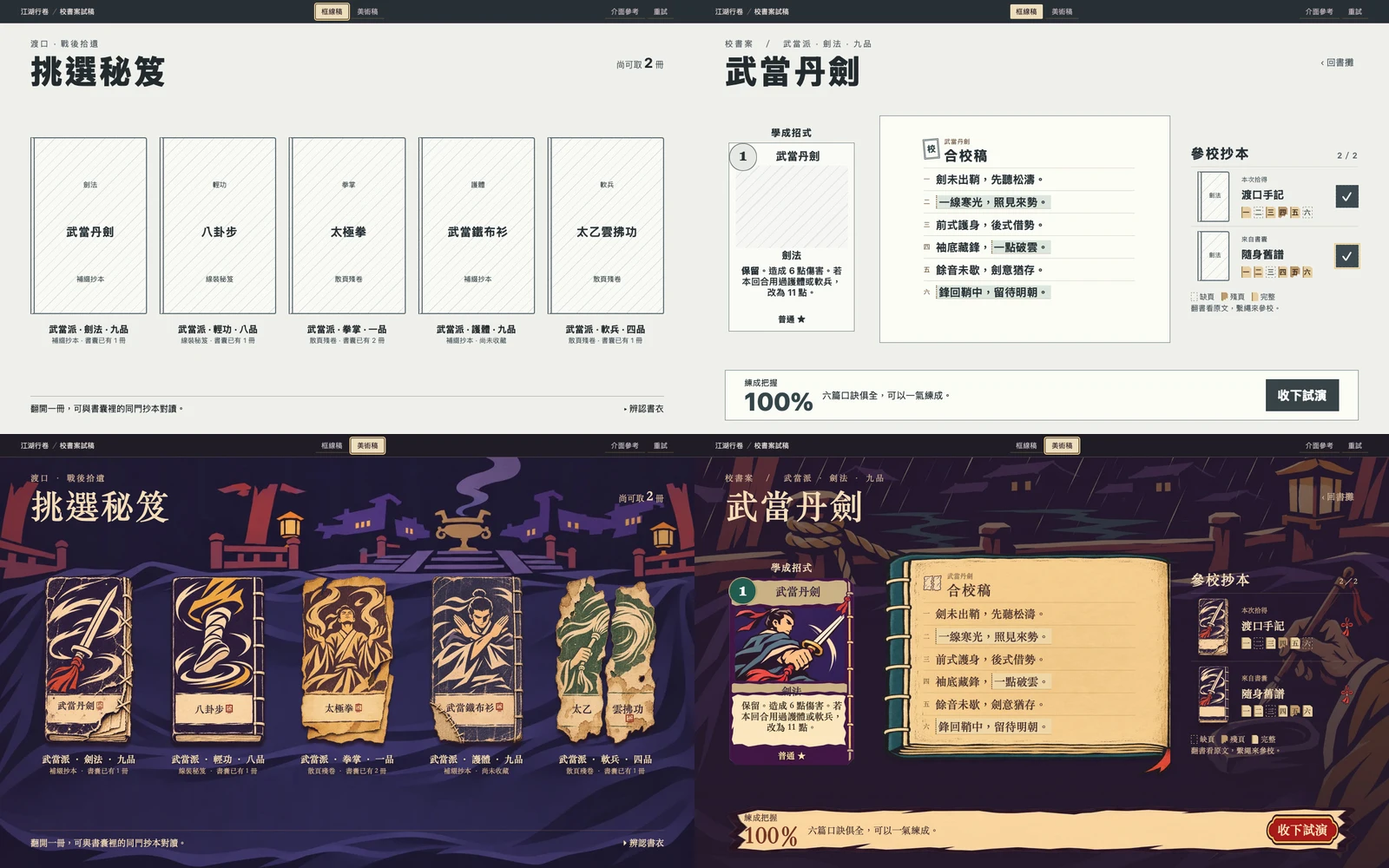
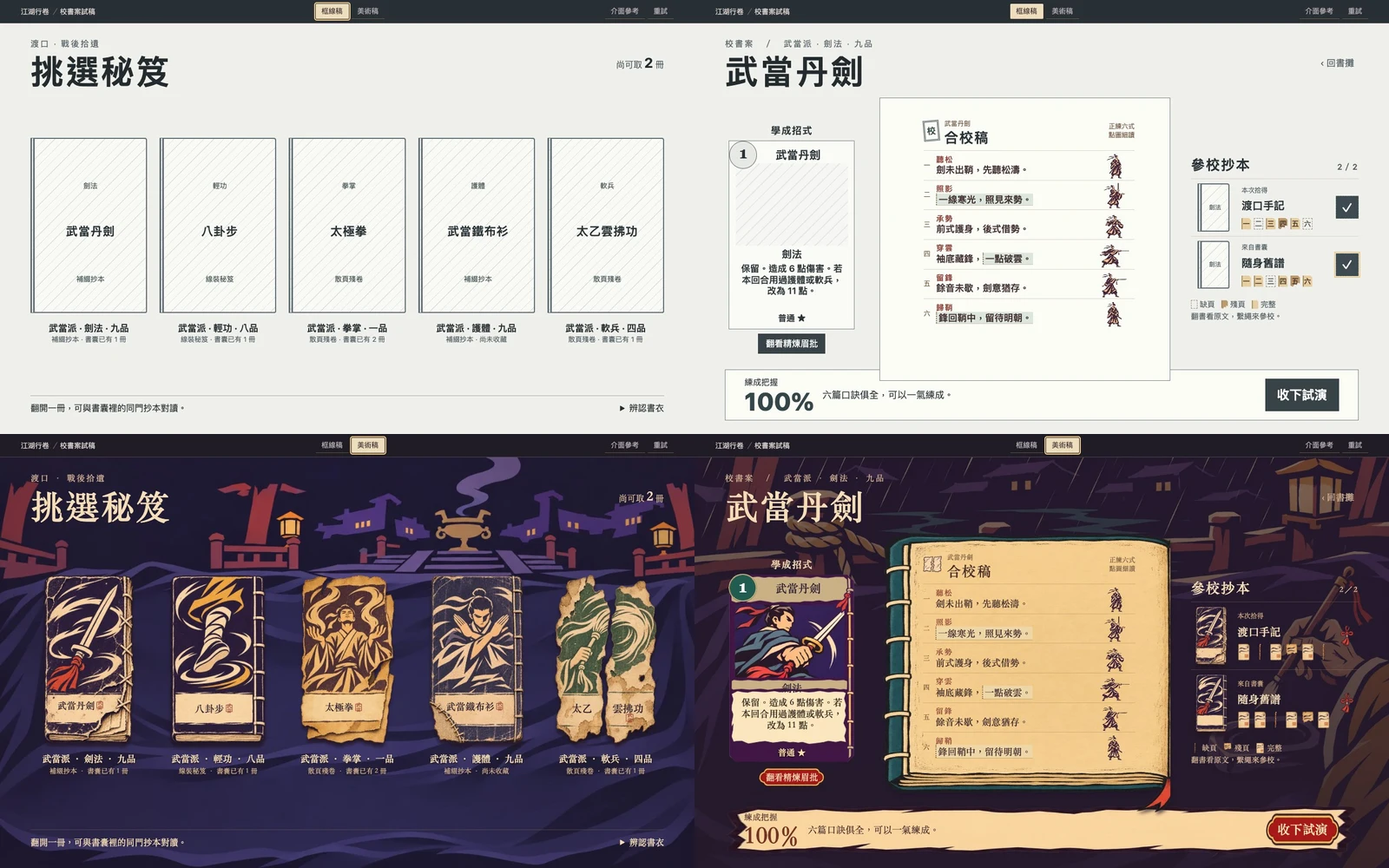
Illustrate each manuscript verse, surviving leaves and refinement notes

diff --git a/wuxia-climb/ferry/experiments/wudang-tree/bindery/bindery.js b/wuxia-climb/ferry/experiments/wudang-tree/bindery/bindery.js
@@ -1,10 +1,12 @@
-import {byName,ranks} from '../catalogue.js';
+import {byName,ranks,effect} from '../catalogue.js';
 import {cardFace} from '../card-face.js';
 import {collate,chapters,withCopy} from '../manuscripts.js';
 import {gateOdds,trainingChance,rehearse,equip} from '../rules.js';
 import {bindingState} from '../bound-book.js';
 import {manualVerses} from '../manual-verses.js';
 import {reviewJourney} from '../review-frames.js';
+
+import {figureBooks} from './figures.js';
 
 const specimens=[
  ['武當丹劍',[2,0,2,1,2,0],'渡口手記',[['隨身舊譜',[2,2,0,2,1,2]]]],
@@ -16,7 +18,7 @@ const specimens=[
 const params=new URLSearchParams(location.search),stage=document.querySelector('#stage');
 let mode=params.get('mode')==='wire'?'wire':'art',screen=params.get('screen')==='study'?'study':'shelf';
 let index=0,state,choices,logs,inspected,chosen;
-const beatMs=720;
+const beatMs=850;
 let playback=null,ticker=0;
 function endPlayback(){clearTimeout(ticker);playback=null}
 function advancePlayback(){
@@ -33,11 +35,10 @@ function startPlayback(){
  }
 }
 // Only the current verse moves. Finished verses hold a single ink pose.
-const motionStrip={'劍法':0,'身法':2,'拳掌':3,'護體':3,'軟兵':1};
 function updateMarks(record){
- const strip=motionStrip[byName.get(specimens[index][0]).branch];
+ const book=figureBooks[specimens[index][0]];
  const live=stage.querySelector('[data-current-verse]');
- if(live&&playback)live.textContent='第'+chapters[playback.step]+'式';
+ if(live&&playback)live.textContent='第'+chapters[playback.step]+'式 · '+book.names[playback.step];
  stage.querySelectorAll('[data-practice-row]').forEach((mark,i)=>{
   const settled=!playback||i<playback.step;
   const fallen=i===record.failed;
@@ -45,8 +46,7 @@ function updateMarks(record){
    :i===playback.step?(fallen?'falling':'moving'):'waiting';
   if(mark.dataset.pose===status)return;
   mark.dataset.pose=status;
-  mark.style.setProperty('--strip-y',((fallen&&['fallen','falling'].includes(status)?5:settled?3:strip)/5*100)+'%');
-  mark.setAttribute('aria-label','第'+chapters[i]+'篇 · '+({waiting:'待演',unreached:'未練到',moving:'試演中',falling:'失手',passed:'已通',fallen:'失手'}[status]));
+  mark.setAttribute('aria-label','第'+chapters[i]+'式 · '+book.names[i]+' · '+({waiting:'待演',unreached:'未練到',moving:'試演中',falling:'失手',passed:'已通',fallen:'失手'}[status]));
  });
 }
 const category=a=>a.branch==='身法'?'輕功':a.branch;
@@ -86,7 +86,26 @@ function shelf(){
  return title('渡口 · 戰後拾遺','挑選秘笈','<p class="allowance">尚可取 <b>'+budget+'</b> 冊</p>')+
   '<div class="shelf">'+books+'</div><div class="shelf-base"><span>翻開一冊，可與書囊裡的同門抄本對讀。</span><details><summary>辨認書衣</summary><div class="dye-key"><span><i></i>靛青　下三品</span><span><i></i>玉綠　中三品</span><span><i></i>赭金　上三品</span></div></details></div>';
 }
-function card(a){return '<div class="target-card">'+cardFace(a)+'</div>'}
+function card(a,star=false){
+ return '<div class="target-card">'+cardFace(a,star,a.cost,effect(a,star,true))+'</div>';
+}
+function figure(book,i,q,pose='print',practice=false){
+ return '<span class="folio-figure" '+(practice?'data-practice-row="'+i+'" ':'')+'style="--fig:url(art/figures/'+book.plate+'.webp);--row:'+i*20+'%" data-ink="'+q+'" data-pose="'+pose+'" role="img" aria-label="'+book.names[i]+'，'+conditionNames[q]+'"></span>';
+}
+function openLeaf(i){
+ const a=byName.get(specimens[index][0]),book=figureBooks[a.name];
+ const p=inspected===null?selectedPages():copies()[inspected][1],q=p[i];
+ const dialog=document.querySelector('#verse-leaf');
+ const note=q===2?book.gloss[i]:q===1?'下半葉已佚。若有另一抄本，可以對讀。':'只餘裝訂處的紙根，招圖與口訣都已散失。';
+ const marginal=q===2&&book.hinge===i?'<aside><b>旁批 · 論逆練</b>'+book.reverse+'</aside>':'';
+ dialog.innerHTML='<article><small>'+a.name+'　／　'+(inspected===null?'合校稿':copies()[inspected][0])+'</small><h2 id="verse-title">第'+chapters[i]+'式　'+book.names[i]+'</h2>'+figure(book,i,q,q===2?'reading':'print')+'<p class="verse-quotation">'+instruction(a,i,q)+'</p><p>'+note+'</p>'+marginal+'<form method="dialog"><button>合回書頁</button></form></article>';
+ dialog.showModal();
+}
+function openRefinement(){
+ const a=byName.get(specimens[index][0]),book=figureBooks[a.name],dialog=document.querySelector('#refinement');
+ dialog.innerHTML='<article><small>'+a.name+'　／　師門眉批</small><h2 id="refine-title">精煉對照</h2><div class="two-cards"><section><h3>初學</h3>'+card(a)+'</section><section><h3>精煉後</h3>'+card(a,true)+'</section></div><p>'+book.refinement+'</p><form method="dialog"><button>合回書頁</button></form></article>';
+ dialog.showModal();
+}
 function instruction(a,line,q,base=q){
  const [start,end]=manualVerses[a.name][line];
  const patch=t=>'<span class="mended" title="這段由另一份抄本接回">'+t+'</span>';
@@ -96,8 +115,8 @@ function instruction(a,line,q,base=q){
  return (base===0?patch(first):first)+(q===2?(base===1?patch(last):last):'<span class="lacuna half" aria-label="下半句缺失"></span>');
 }
 const conditionNames=['缺頁','殘頁','完整'];
-function leafStrip(pages){
- const desc=pages.map((q,i)=>'第'+chapters[i]+'篇'+conditionNames[q]).join('、');
+function leafStrip(book,pages){
+ const desc=pages.map((q,i)=>'第'+chapters[i]+'式'+book.names[i]+'，'+conditionNames[q]).join('、');
  return '<span class="coverage" role="img" aria-label="'+desc+'" title="'+desc+'">'+pages.map((q,i)=>'<i data-q="'+q+'" aria-hidden="true">'+chapters[i]+'</i>').join('')+'</span>';
 }
 function verdict(a,pages,odds,rec){
@@ -106,24 +125,26 @@ function verdict(a,pages,odds,rec){
  if(rec)return '<div class="decision-result"><strong>'+(rec.failed<0?'六式連成':'止於第'+chapters[rec.failed]+'式')+'</strong><span>'+(rec.failed<0?'《'+a.name+'》已加入牌組。':'這次未能學成，抄本已收入書囊。')+'</span></div>'+button('shelf','回書攤');
  if(!chosen.size)return '<span>從手邊選一份抄本，攤開來對讀。</span>'+button('train','收下試演',true);
  const weakest=odds.indexOf(Math.min(...odds));
- const clue=pages[weakest]===0?'第'+chapters[weakest]+'篇失傳，這一式要自行推敲。':
-  pages[weakest]===1?'第'+chapters[weakest]+'篇只剩半句，這一式未有十足把握。':
+ const title='「'+figureBooks[a.name].names[weakest]+'」';
+ const clue=pages[weakest]===0?title+'缺了全頁，這一式要自行推敲。':
+  pages[weakest]===1?title+'只剩半句，後半式要自行推敲。':
   odds[weakest]<100?'第'+chapters[weakest]+'式尚欠《'+a.parent+'》的根基。':'六篇口訣俱全，可以一氣練成。';
  return '<div class="decision-chance"><small>練成把握</small><strong>'+trainingChance(state,a,pages)+'%</strong></div><span class="decision-note">'+clue+'</span>'+button('train',logs.size>=2?'本場已取兩冊':'收下試演',logs.size>=2);
 }
 function study(){
  const a=byName.get(specimens[index][0]),sources=copies(),pages=selectedPages(),odds=gateOdds(state,a,pages),rec=logs.get(index);
  const seeOriginal=inspected!==null,read=seeOriginal?sources[inspected][1]:pages;
+ const book=figureBooks[a.name];
  const first=sources.find((_,i)=>chosen.has(i));
  const chapterList=chapters.map((n,i)=>{
   const base=seeOriginal||!first?read[i]:first[1][i];
-  const mark=rec&&!seeOriginal?'<span class="practice-mark" data-practice-row="'+i+'" role="img"></span>':'';
-  return '<li data-q="'+read[i]+'"><span class="chapter-number">'+n+'</span><span class="stanza">'+instruction(a,i,read[i],base)+'</span>'+mark+'</li>';
+  const mark=figure(book,i,read[i],'print',!!rec&&!seeOriginal);
+  return '<li data-q="'+read[i]+'"><button class="verse-row" data-verse="'+i+'" '+(playback?'disabled':'')+' aria-label="翻看第'+n+'式：'+book.names[i]+'，'+conditionNames[read[i]]+'"><span class="chapter-number">'+n+'</span><span class="verse-copy"><b>'+book.names[i]+'</b><span class="stanza">'+instruction(a,i,read[i],base)+'</span></span>'+mark+'</button></li>';
  }).join('');
- const candidateList=sources.map(([label,p],i)=>'<div class="source-row"><button data-look="'+i+'" class="little-copy" aria-label="翻閱原本：'+label+'">'+volume(a,p,i)+'</button><span class="source-caption"><small>'+(i===0?'本次拾得':'來自書囊')+'</small><b>'+label+'</b>'+leafStrip(p)+'</span><button class="use-copy" data-use="'+i+'" aria-pressed="'+chosen.has(i)+'" aria-label="'+(chosen.has(i)?'移出':'加入')+label+'" '+(rec?'disabled':'')+'>'+(chosen.has(i)?'✓':'＋')+'</button></div>').join('');
+ const candidateList=sources.map(([label,p],i)=>'<div class="source-row"><button data-look="'+i+'" class="little-copy" aria-label="翻閱原本：'+label+'">'+volume(a,p,i)+'</button><span class="source-caption"><small>'+(i===0?'本次拾得':'來自書囊')+'</small><b>'+label+'</b>'+leafStrip(book,p)+'</span><button class="use-copy" data-use="'+i+'" aria-pressed="'+chosen.has(i)+'" aria-label="'+(chosen.has(i)?'移出':'加入')+label+'" '+(rec?'disabled':'')+'>'+(chosen.has(i)?'✓':'＋')+'</button></div>').join('');
  return title('校書案　／　'+identity(a),a.name,'<button data-do="shelf" class="return">‹ 回書攤</button>')+
- '<div class="workbench"><section class="payoff"><h2>'+(!playback&&rec?.failed===-1?'已加入牌組':'學成招式')+'</h2>'+card(a)+'</section>'+
- '<section class="reading"><div class="paper"><div class="paper-head"><span class="chop">'+(seeOriginal?'原':'校')+'</span><div><small>'+a.name+'</small><h2>'+(seeOriginal?sources[inspected][0]:'合校稿')+'</h2></div></div><ol>'+chapterList+'</ol></div>'+
+ '<div class="workbench"><section class="payoff"><h2>'+(!playback&&rec?.failed===-1?'已加入牌組':'學成招式')+'</h2>'+card(a)+'<button class="refine-preview" data-do="refinement" '+(playback?'disabled':'')+'>翻看精煉眉批</button></section>'+
+ '<section class="reading"><div class="paper"><div class="paper-head"><span class="chop">'+(seeOriginal?'原':'校')+'</span><div><small>'+a.name+'</small><h2>'+(seeOriginal?sources[inspected][0]:'合校稿')+'</h2></div><small class="reading-order">正練六式<br>點圖細讀</small></div><ol>'+chapterList+'</ol></div>'+
  (seeOriginal?'<button data-do="joined" class="read-back">看合校稿</button>':'')+'</section>'+
  '<section class="sources"><h2>參校抄本 <small>'+chosen.size+'／'+sources.length+'</small></h2>'+candidateList+'<div class="leaf-key">'+conditionNames.map((text,q)=>'<span><i data-q="'+q+'"></i>'+text+'</span>').join('')+'</div><p>翻書看原文，繫繩來參校。</p></section></div>'+
  '<div class="judgment" aria-live="polite">'+verdict(a,pages,odds,rec)+'</div>';
@@ -143,6 +164,8 @@ document.addEventListener('click',e=>{
  if(b.dataset.do==='references'){document.querySelector('#references').showModal();return}
  if(b.dataset.do==='reset'){reset();screen='shelf';render(true);return}
  if(b.dataset.do==='shelf'){endPlayback();screen='shelf';render(true);return}
+ if(b.dataset.verse!=null){openLeaf(+b.dataset.verse);return}
+ if(b.dataset.do==='refinement'){openRefinement();return}
  if(b.dataset.look!=null)inspected=+b.dataset.look;
  else if(b.dataset.use!=null){const i=+b.dataset.use;chosen.has(i)?chosen.delete(i):chosen.add(i);inspected=null}
  else if(b.dataset.do==='joined')inspected=null;

diff --git a/wuxia-climb/ferry/experiments/wudang-tree/bindery/bindery.css b/wuxia-climb/ferry/experiments/wudang-tree/bindery/bindery.css
@@ -56,18 +56,6 @@ body[data-mode=wire]{--cream:#242b2f;--muted:#556166;--serif:system-ui,sans-seri
 .volume-foot{display:grid;justify-items:center;gap:3px;line-height:1.25;padding:4px 10px}
 .volume-foot b{font-weight:700;color:var(--cream)}.volume-foot small{font-size:.76em;color:var(--muted)}
 .paper li{grid-template-columns:1em minmax(0,1fr) clamp(29px,3.5vw,49px)}
-.practice-mark{justify-self:end;display:block;width:100%;max-width:48px;aspect-ratio:7/6;max-height:clamp(27px,4.9vh,42px);background:none}
-.practice-mark:is([data-pose=moving],[data-pose=passed],[data-pose=falling],[data-pose=fallen]){
- background-image:url('art/practice-ink.webp');background-size:800% 600%;background-repeat:no-repeat;background-position:0 var(--strip-y)
-}
-.practice-mark[data-pose=fallen]{background-position-x:100%}
-.practice-mark[data-pose=passed]{background-position-x:0%;opacity:.78}
-@keyframes ink-form{from{background-position-x:0%}to{background-position-x:100%}}
-@media(prefers-reduced-motion:no-preference){
- .practice-mark[data-pose=moving]{animation:ink-form .62s steps(7,end) both}
- .practice-mark[data-pose=falling]{animation:ink-form .50s steps(7,end) both}
-}
-
 /* The live inscription follows the painted title slip on each edition. */
 [data-mode=art] .edition{container-type:inline-size;aspect-ratio:var(--ratio,2/3)}
 [data-mode=art] .edition .book-title{position:absolute;inset:auto;left:var(--label-x,50%);top:var(--label-y,74%);width:var(--label-w,74%);height:auto;transform:translate(-50%,-50%) rotate(var(--angle,0deg));writing-mode:horizontal-tb;display:flex;align-items:center;justify-content:center;gap:.18em;color:#312332;line-height:1.1;font-size:var(--label-size,10cqw);letter-spacing:.015em}
@@ -80,7 +68,6 @@ body[data-mode=wire]{--cream:#242b2f;--muted:#556166;--serif:system-ui,sans-seri
 [data-mode=wire] .volume-foot{text-shadow:none}
 .volume-foot small{font-size:clamp(11px,.99vw,15px)}
 .dye-key{display:grid;gap:.3em}.dye-key i{display:inline-block;width:1em;height:1em;margin-right:.4em;vertical-align:middle;background:#51507e}.dye-key span:nth-child(2) i{background:#547c67}.dye-key span:nth-child(3) i{background:#bf8b37}
-.paper li:not(:has(.practice-mark)){grid-template-columns:1em 1fr}
 .mended{background:#eed6a7;border-inline-start:2px dotted #987955;box-decoration-break:clone;-webkit-box-decoration-break:clone;padding-inline:.16em;box-shadow:0 1px 0 #95764b66}
 [data-mode=wire] .mended{background:#dce6dc}
 .coverage,.leaf-key{display:flex;align-items:center;gap:4px}.coverage{margin-top:3px}
@@ -91,9 +78,8 @@ body[data-mode=wire]{--cream:#242b2f;--muted:#556166;--serif:system-ui,sans-seri
 [data-mode=wire] .coverage [data-q="0"]{color:#526058}
 .judgment{min-height:65px}.judgment .decision-result{display:flex;align-items:baseline;gap:1rem}.judgment .decision-result strong,.judgment [data-current-verse]{font-size:clamp(20px,2.5vw,34px)}
 .judgment .decision-note{flex:1 1 auto;font-size:clamp(13px,1.35vw,19px)}.judgment .apply{flex:none}
-.practice-mark{max-width:37px}.practice-mark[data-pose=fallen]{filter:sepia(.5);opacity:.9}
 @media(max-width:780px){[data-mode=art] .shelf-item .edition{height:min(18vh,33vw)}.shelf{row-gap:12px}.volume-foot{padding:2px 0}.volume-foot b{font-size:12px}.shelf-base>span{max-width:65%}.source-row{grid-template-columns:32px minmax(88px,1fr) 37px;gap:5px}.coverage{gap:2px}.judgment .decision-result{display:grid;gap:4px}.judgment .decision-note{flex-basis:40%}}
-@media(max-width:480px){.shelf{grid-template-columns:repeat(2,minmax(0,1fr))}.room-title h1{font-size:30px}.workbench{grid-template-columns:minmax(90px,.75fr) minmax(0,1.65fr)}.paper{padding-inline:9%}.paper li{gap:2px}.paper li:has(.practice-mark){grid-template-columns:.9em minmax(0,1fr) 22px}.sources{display:block}.source-row{display:grid;margin:0}.sources .little-copy .volume{width:28px}.judgment{gap:6px}.judgment .apply{padding:10px 12px}}
+@media(max-width:480px){.shelf{grid-template-columns:repeat(2,minmax(0,1fr))}.room-title h1{font-size:30px}.workbench{grid-template-columns:minmax(90px,.75fr) minmax(0,1.65fr)}.paper{padding-inline:9%}.paper li{gap:2px}.sources{display:block}.source-row{display:grid;margin:0}.sources .little-copy .volume{width:28px}.judgment{gap:6px}.judgment .apply{padding:10px 12px}}
 
 .edition-sword-sound{--ratio:478/863;--label-x:45.9%;--label-y:79.2%}
 .edition-sword-worn{--ratio:469/858;--label-x:40.7%;--label-y:77.0%}
@@ -111,3 +97,33 @@ body[data-mode=wire]{--cream:#242b2f;--muted:#556166;--serif:system-ui,sans-seri
 [data-mode=art] .edition-whisk-torn .book-title span:nth-child(2){left:72%}
 [data-mode=art] .edition-whisk-torn .sect-seal{position:absolute;left:70%;top:100%}
 @media(min-width:1000px){.coverage{gap:5px}.coverage i{font-size:13px;width:1.35em;height:1.6em}.source-caption{gap:4px}.leaf-key{font-size:14px}.leaf-key i{font-size:10px}}
+
+.paper li:has(.verse-row){display:block}
+.verse-row{width:100%;text-align:start;color:#412e31;display:grid;grid-template-columns:1em minmax(0,1fr) clamp(38px,5.8vw,78px);align-items:center;gap:7px;min-height:clamp(42px,6.7vh,65px);border-radius:2px}
+.verse-row:not(:disabled):is(:focus-visible,:hover){background:#a2783921}
+.verse-copy{display:grid;align-content:center;gap:1px}.verse-copy b{font:bold clamp(12px,1.1vw,15px)/1.1 var(--serif);letter-spacing:.15em;color:#893f34}
+.verse-copy .stanza{font-size:clamp(14px,1.34vw,20px);line-height:1.3}
+.paper-head .reading-order{margin-inline-start:auto;text-align:end;font-size:12px;line-height:1.4}
+.folio-figure{position:relative;display:block;justify-self:center;width:100%;max-width:78px;aspect-ratio:4/3;background:var(--fig) 100% var(--row)/200% 600% no-repeat}
+.folio-figure[data-ink="0"][data-pose=print]{background:url('art/figures/leaf-0.webp') center/contain no-repeat}
+.folio-figure[data-ink="1"][data-pose=print]{clip-path:polygon(0 0,100% 0,100% 57%,80% 60%,76% 47%,48% 68%,31% 54%,0 65%);background-position-x:0%}
+.folio-figure:is([data-pose=waiting],[data-pose=unreached]){visibility:hidden}
+.folio-figure[data-pose=fallen]{background-image:url('art/practice-ink.webp');background-size:800% 600%;background-position:100% 100%}
+@keyframes folio-gesture{0%,42%{background-position-x:0%}55%,100%{background-position-x:100%}}
+@media(prefers-reduced-motion:no-preference){.folio-figure:is([data-pose=moving],[data-pose=reading],[data-pose=falling]){animation:folio-gesture .72s steps(1,end) both}}
+[data-mode=art] :is(.coverage,.leaf-key) i{width:clamp(17px,1.9vw,28px);height:clamp(23px,2.5vw,35px);font-size:0;background:var(--leaf) center top/contain no-repeat;clip-path:none;box-shadow:none;border:none;border-radius:0}
+[data-q="0"]{--leaf:url('art/figures/leaf-0.webp')}[data-q="1"]{--leaf:url('art/figures/leaf-1.webp')}[data-q="2"]{--leaf:url('art/figures/leaf-2.webp')}
+[data-mode=art] .leaf-key i{width:16px;height:20px}.refine-preview,.leaf-dialog form button{padding:6px 14px;color:var(--cream);background:var(--art-journey-press) center/100% 100%}
+.leaf-dialog{width:min(92vw,540px);max-height:92svh;overflow:auto;padding:0;border:0;background:#f0d2a2;color:#432e31;box-shadow:0 12px 75px #100d16aa;font-family:var(--serif)}
+.leaf-dialog::backdrop{background:#1d1527bf}
+.leaf-dialog article{padding:clamp(28px,4vw,54px);background:var(--art-open-manuscript) left center/200% 100% no-repeat}
+.leaf-dialog h2{margin:.2em 0 .6em;color:#4f3032}.leaf-dialog article>p{margin:.6em 0;line-height:1.55}.leaf-dialog .folio-figure{width:min(50%,170px);max-width:170px;margin:0 auto}
+.leaf-dialog aside{padding:.55em .75em;border-inline-start:2px solid #9b5140;color:#6f4034}.leaf-dialog aside b{display:block}.leaf-dialog form{margin-top:1em;text-align:end}.leaf-dialog .verse-quotation{font-weight:700}.two-cards{display:grid;grid-template-columns:1fr 1fr;gap:.8rem;justify-items:center}.two-cards section{min-width:0}.two-cards h3{margin:0 0 4px;text-align:center;font-size:.95rem}.two-cards .target-card{width:100%}
+[data-mode=wire] .leaf-dialog article{background:#faf9f3}[data-mode=wire] .refine-preview{background:#384348;color:#fff}
+@media(max-width:780px){.verse-row{grid-template-columns:.9em minmax(0,1fr) 41px;gap:4px}.leaf-key{gap:10px}.reading{min-width:0}.leaf-dialog article{padding:27px}.refine-preview{font-size:13px}.workbench{align-items:center}}
+@media(max-width:480px){.workbench{grid-template-columns:minmax(0,1fr) minmax(0,1.6fr)}.verse-row{grid-template-columns:minmax(0,1fr) 37px;gap:2px}.chapter-number{display:none}.verse-copy b{font-size:13px}.verse-copy .stanza{font-size:12px}.paper .chop{display:none}.reading-order{font-size:10px!important}.sources .source-row{grid-template-columns:38px 1fr 42px}.leaf-dialog .two-cards{gap:4px}}
+@media (min-width:781px) and (max-height:640px){.verse-row{min-height:35px}.verse-row .folio-figure{max-width:46px}.paper{padding-block:19px 44px}}
+@media(min-width:781px) and (min-height:641px){.paper:has(.verse-row){padding-bottom:clamp(87px,12vh,116px)}.verse-row .folio-figure{max-width:68px}}
+
+.leaf-dialog article{padding:clamp(28px,4vw,54px) 9% clamp(60px,9vh,85px) 16%}.leaf-dialog h2{font-size:clamp(20px,3vw,36px);line-height:1.2}
+#refinement{width:min(94vw,650px)}.two-cards{justify-items:stretch}.two-cards section{width:100%}.two-cards .target-card{display:block;max-width:185px;margin:auto}.two-cards .upgrade-change{color:#126348;background:#f2dfb1;font-weight:900}

diff --git a/wuxia-climb/ferry/experiments/wudang-tree/bindery/figures.js b/wuxia-climb/ferry/experiments/wudang-tree/bindery/figures.js
@@ -1,0 +1,24 @@
+// The rubrics survive in the table of contents. A missing leaf cannot reveal
+// its illustration, explanation or marginal note until another copy restores it.
+export const figureBooks={
+ '武當丹劍':{
+  plate:'sword',names:['聽松','照影','承勢','穿雲','留鋒','歸鞘'],
+  gloss:['劍還在鞘裏。畫中人聽了一陣松聲，衣角先靜下來。','上一圖只見劍穗；翻到這一圖，紙上才有了第一道劍光。','這一式接的是上一手護身的餘勢。丹劍借勢的訣竅，就藏在兩圖之間。','直到此處，藏在袖下的那一點寒光才穿出雲影。','身形已定，穗子還在晃。畫師把一招的餘韻也留了下來。','劍已歸鞘。看最後一圖的肩背，與卷首聽松時正好相應。'],
+  hinge:2,reverse:'有人在圖旁倒著題了一句：「鋒既出，還能借它護身麼？」',refinement:'精煉在「承勢」。先行護體或用過軟兵，接來的這一劍才更有力。'},
+ '八卦步':{
+  plate:'step',names:['認磚','讓路','換步','轉身','留步','出圈'],
+  gloss:['庭磚上還積著雨水。起步之前，先看清哪一塊磚留得下腳印。','圖中人側身讓出一步，身後留著一處空位。','兩行腳印在這裏交錯。從這一頁起，原來的路可以捨去。','衣角已經轉過去，後腳才離開原地。兩幅圖要連著看。','一腳落地，另一腳還空著，下一步仍有選擇。','最後一個腳印落在圈外。換走一張手牌，再抽一張，取的就是這層意思。'],
+  hinge:2,reverse:'另一位抄書人把腳印圈回原路，只題了兩字：「回身」。',refinement:'精煉在「換步」。護體更穩，換走的傷勢牌也能從本場戰鬥中消耗。'},
+ '太極拳':{
+  plate:'palm',names:['抱圓','接浪','分陰陽','轉腰','還勁','合掌'],
+  gloss:['兩袖之間留一個圓，像溪水繞石時留下的空處。','上頁的水勢還在，這一式便伸手相接。','兩掌一高一低，兩邊的袖子各受半幅墨。','水面月影似乎未動，畫中人卻已轉過半身。','前幾式承下的來勁，在這一掌還出去。本回合擋下多少，牌上便能借回多少。','兩掌回到身前，末圖的圓又接上了第一圖。'],
+  hinge:4,reverse:'頁角另畫了一個向內的圓。「若將來勁留下，下一式又當如何？」',refinement:'精煉使這一掌本身更有力。從格擋借來的那份勁，仍照本回合的實數計算。'},
+ '武當鐵布衫':{
+  plate:'guard',names:['整襟','定樁','合袖','震衣','息響','拂塵'],
+  gloss:['布衣沒有甲片。畫師在第一頁特意畫出鬆著的兩襟。','山門起風，衣紋仍垂直向下。到這一式，人才真正站定。','兩袖相合。若把一擊全數擋住，下一頁才有衣上的回響。','衣袖一振向兩邊展開。來者成雙時，這一記回勁也更重。','震開的衣紋一層層落下，兩手便隨它收回。','末頁的人低頭拂去袍角的灰，好像剛才只遇上一陣山風。'],
+  hinge:2,reverse:'側批寫道：「衣先開而後合，回聲又落在哪裏？」',refinement:'精煉在「合袖」。護體加深，較容易擋盡來勢，等到那一下回勁。'},
+ '太乙雲拂功':{
+  plate:'whisk',names:['起雲','展絲','初拂','回拂','垂雲','收拂'],
+  gloss:['拂柄抬起，細絲仍垂著；這是雲影將起的一刻。','絲尾在半空展成一面薄幕，遠處的寺影被遮住半幅。','第一道拂影走得低，絲尾掠過畫裏的柴門。','前一掃尚未收盡，回身又是一掃。牌上的兩擊，原來是同一縷雲的來回。','人已站定，拂絲還垂在衣前，像雨後山腳的一線薄雲。','畫中人將絲尾收到袖邊，這才露出卷首那座寺。'],
+  hinge:3,reverse:'另一行淡墨從高處起筆，把低拂留到回身時才畫。',refinement:'精煉的是來回兩拂，每一掃的勁力都會提升。'}
+};

diff --git a/manuscript-workshop/index.html b/manuscript-workshop/index.html
@@ -1,3 +1,3 @@
-<!doctype html><html lang="zh-Hant"><head><base href="../wuxia-climb/ferry/experiments/wudang-tree/bindery/"><meta charset="utf-8"><meta name="viewport" content="width=device-width,initial-scale=1"><title>江湖行卷 · 校書案試稿</title><link rel="stylesheet" href="../study.css"><link rel="stylesheet" href="bindery.css?books=2"></head><body>
+<!doctype html><html lang="zh-Hant"><head><base href="../wuxia-climb/ferry/experiments/wudang-tree/bindery/"><meta charset="utf-8"><meta name="viewport" content="width=device-width,initial-scale=1"><title>江湖行卷 · 校書案試稿</title><link rel="stylesheet" href="../study.css"><link rel="stylesheet" href="bindery.css?leaves=3"></head><body>
 <nav class="reviewbar" aria-label="設計稿"><span>江湖行卷 <i>／</i> 校書案試稿</span><div><button data-mode="wire">框線稿</button><button data-mode="art">美術稿</button></div><aside><button data-do="references">介面參考</button><button data-do="reset">重試</button></aside></nav>
-<main id="stage"></main><dialog id="references"><h2>介面參考</h2><p><a href="https://store.steampowered.com/app/1574580/Strange_Horticulture/" target="_blank" rel="noopener">Strange Horticulture ↗</a> · <a target="_blank" rel="noopener" href="https://shared.akamai.steamstatic.com/store_item_assets/steam/apps/1574580/ss_bdf4e7e6ab970f19c95ae96896e9457a95dbdf65.1920x1080.jpg">遊戲截圖</a><br>草藥跟攤開的圖鑑同枱，玩家能來回核對。我們讓抄本和合校稿同時可見。</p><p><a href="https://weatherfactory.biz/a-peep-into-futurity/" target="_blank" rel="noopener">Book of Hours · 書桌設計 ↗</a> · <a target="_blank" rel="noopener" href="https://shared.akamai.steamstatic.com/store_item_assets/steam/apps/1028310/ss_0178a24cf186fc78c2bf8917564118bbf3e8e49a.1920x1080.jpg">遊戲截圖</a><br>走到書桌，再挑選放進去的材料。我們把勾選抄本和正式試演分成兩步。</p><p>此處備了五門功夫、兩次取書機會。選擇參校本是今次試驗的玩法。</p><form method="dialog"><button>回到案前</button></form></dialog><script type="module" src="bindery.js?books=2"></script></body></html>
+<main id="stage"></main><dialog class="leaf-dialog" id="verse-leaf" aria-labelledby="verse-title"></dialog><dialog class="leaf-dialog" id="refinement" aria-labelledby="refine-title"></dialog><dialog id="references"><h2>介面參考</h2><p><a href="https://store.steampowered.com/app/1574580/Strange_Horticulture/" target="_blank" rel="noopener">Strange Horticulture ↗</a> · <a target="_blank" rel="noopener" href="https://shared.akamai.steamstatic.com/store_item_assets/steam/apps/1574580/ss_bdf4e7e6ab970f19c95ae96896e9457a95dbdf65.1920x1080.jpg">遊戲截圖</a><br>草藥跟攤開的圖鑑同枱，玩家能來回核對。我們讓抄本和合校稿同時可見。</p><p><a href="https://weatherfactory.biz/a-peep-into-futurity/" target="_blank" rel="noopener">Book of Hours · 書桌設計 ↗</a> · <a target="_blank" rel="noopener" href="https://shared.akamai.steamstatic.com/store_item_assets/steam/apps/1028310/ss_0178a24cf186fc78c2bf8917564118bbf3e8e49a.1920x1080.jpg">遊戲截圖</a><br>走到書桌，再挑選放進去的材料。我們把勾選抄本和正式試演分成兩步。</p><p>此處備了五門功夫、兩次取書機會。選擇參校本是今次試驗的玩法。</p><form method="dialog"><button>回到案前</button></form></dialog><script type="module" src="bindery.js?leaves=3"></script></body></html>

diff --git a/wuxia-climb/ferry/experiments/wudang-tree/bindery/index.html b/wuxia-climb/ferry/experiments/wudang-tree/bindery/index.html
@@ -1,3 +1,3 @@
-<!doctype html><html lang="zh-Hant"><head><meta charset="utf-8"><meta name="viewport" content="width=device-width,initial-scale=1"><title>江湖行卷 · 校書案試稿</title><link rel="stylesheet" href="../study.css"><link rel="stylesheet" href="bindery.css?books=2"></head><body>
+<!doctype html><html lang="zh-Hant"><head><meta charset="utf-8"><meta name="viewport" content="width=device-width,initial-scale=1"><title>江湖行卷 · 校書案試稿</title><link rel="stylesheet" href="../study.css"><link rel="stylesheet" href="bindery.css?leaves=3"></head><body>
 <nav class="reviewbar" aria-label="設計稿"><span>江湖行卷 <i>／</i> 校書案試稿</span><div><button data-mode="wire">框線稿</button><button data-mode="art">美術稿</button></div><aside><button data-do="references">介面參考</button><button data-do="reset">重試</button></aside></nav>
-<main id="stage"></main><dialog id="references"><h2>介面參考</h2><p><a href="https://store.steampowered.com/app/1574580/Strange_Horticulture/" target="_blank" rel="noopener">Strange Horticulture ↗</a> · <a target="_blank" rel="noopener" href="https://shared.akamai.steamstatic.com/store_item_assets/steam/apps/1574580/ss_bdf4e7e6ab970f19c95ae96896e9457a95dbdf65.1920x1080.jpg">遊戲截圖</a><br>草藥跟攤開的圖鑑同枱，玩家能來回核對。我們讓抄本和合校稿同時可見。</p><p><a href="https://weatherfactory.biz/a-peep-into-futurity/" target="_blank" rel="noopener">Book of Hours · 書桌設計 ↗</a> · <a target="_blank" rel="noopener" href="https://shared.akamai.steamstatic.com/store_item_assets/steam/apps/1028310/ss_0178a24cf186fc78c2bf8917564118bbf3e8e49a.1920x1080.jpg">遊戲截圖</a><br>走到書桌，再挑選放進去的材料。我們把勾選抄本和正式試演分成兩步。</p><p>此處備了五門功夫、兩次取書機會。選擇參校本是今次試驗的玩法。</p><form method="dialog"><button>回到案前</button></form></dialog><script type="module" src="bindery.js?books=2"></script></body></html>
+<main id="stage"></main><dialog class="leaf-dialog" id="verse-leaf" aria-labelledby="verse-title"></dialog><dialog class="leaf-dialog" id="refinement" aria-labelledby="refine-title"></dialog><dialog id="references"><h2>介面參考</h2><p><a href="https://store.steampowered.com/app/1574580/Strange_Horticulture/" target="_blank" rel="noopener">Strange Horticulture ↗</a> · <a target="_blank" rel="noopener" href="https://shared.akamai.steamstatic.com/store_item_assets/steam/apps/1574580/ss_bdf4e7e6ab970f19c95ae96896e9457a95dbdf65.1920x1080.jpg">遊戲截圖</a><br>草藥跟攤開的圖鑑同枱，玩家能來回核對。我們讓抄本和合校稿同時可見。</p><p><a href="https://weatherfactory.biz/a-peep-into-futurity/" target="_blank" rel="noopener">Book of Hours · 書桌設計 ↗</a> · <a target="_blank" rel="noopener" href="https://shared.akamai.steamstatic.com/store_item_assets/steam/apps/1028310/ss_0178a24cf186fc78c2bf8917564118bbf3e8e49a.1920x1080.jpg">遊戲截圖</a><br>走到書桌，再挑選放進去的材料。我們把勾選抄本和正式試演分成兩步。</p><p>此處備了五門功夫、兩次取書機會。選擇參校本是今次試驗的玩法。</p><form method="dialog"><button>回到案前</button></form></dialog><script type="module" src="bindery.js?leaves=3"></script></body></html>
